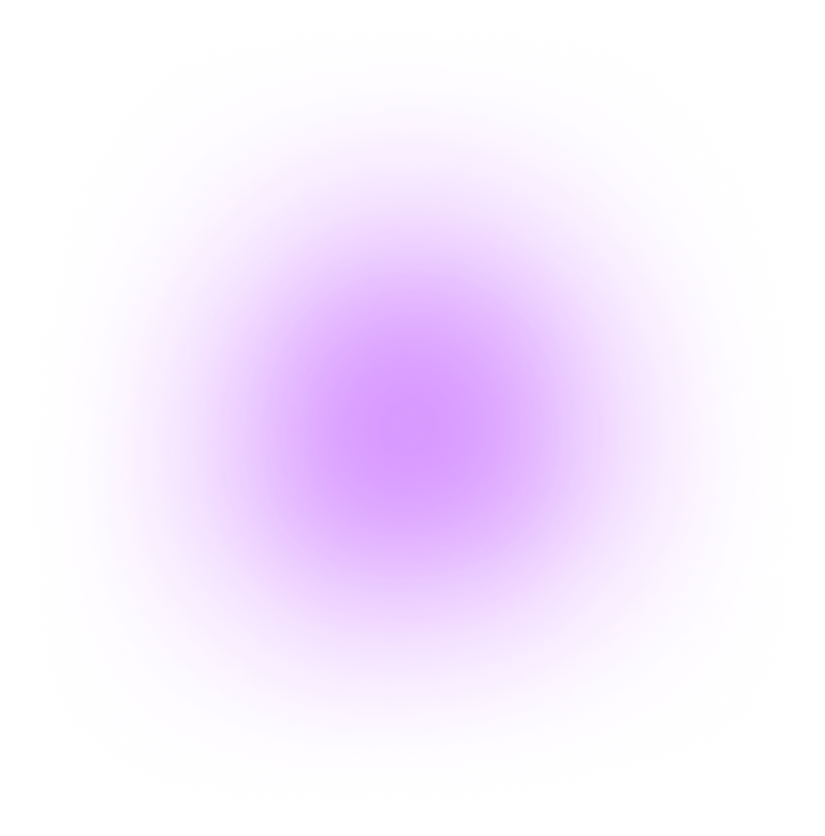
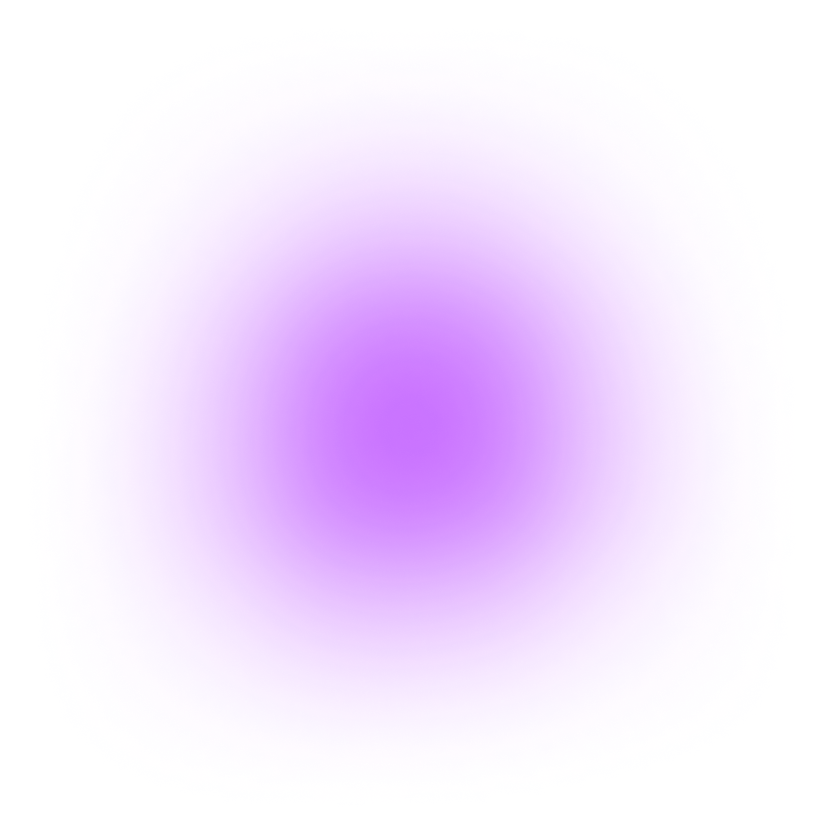
updated loading and purple

Changed region(s): [[0.3333, 0.3421, 0.6667, 0.6842]]

diff --git a/css/index.css b/css/index.css
@@ -58,6 +58,14 @@ body {
     text-align: center;
     bottom: calc(100vh / 2);
     width: 100%;
+    -webkit-animation: twinkle 1s infinite alternate;
+    /* Safari 4+ */
+    -moz-animation: twinkle 1s infinite alternate;
+    /* Fx 5+ */
+    -o-animation: twinkle 1s infinite alternate;
+    /* Opera 12+ */
+    animation: twinkle 1s infinite alternate;
+    /* IE 10+, Fx 29+ */
 }
 
 .welcome_sound {
